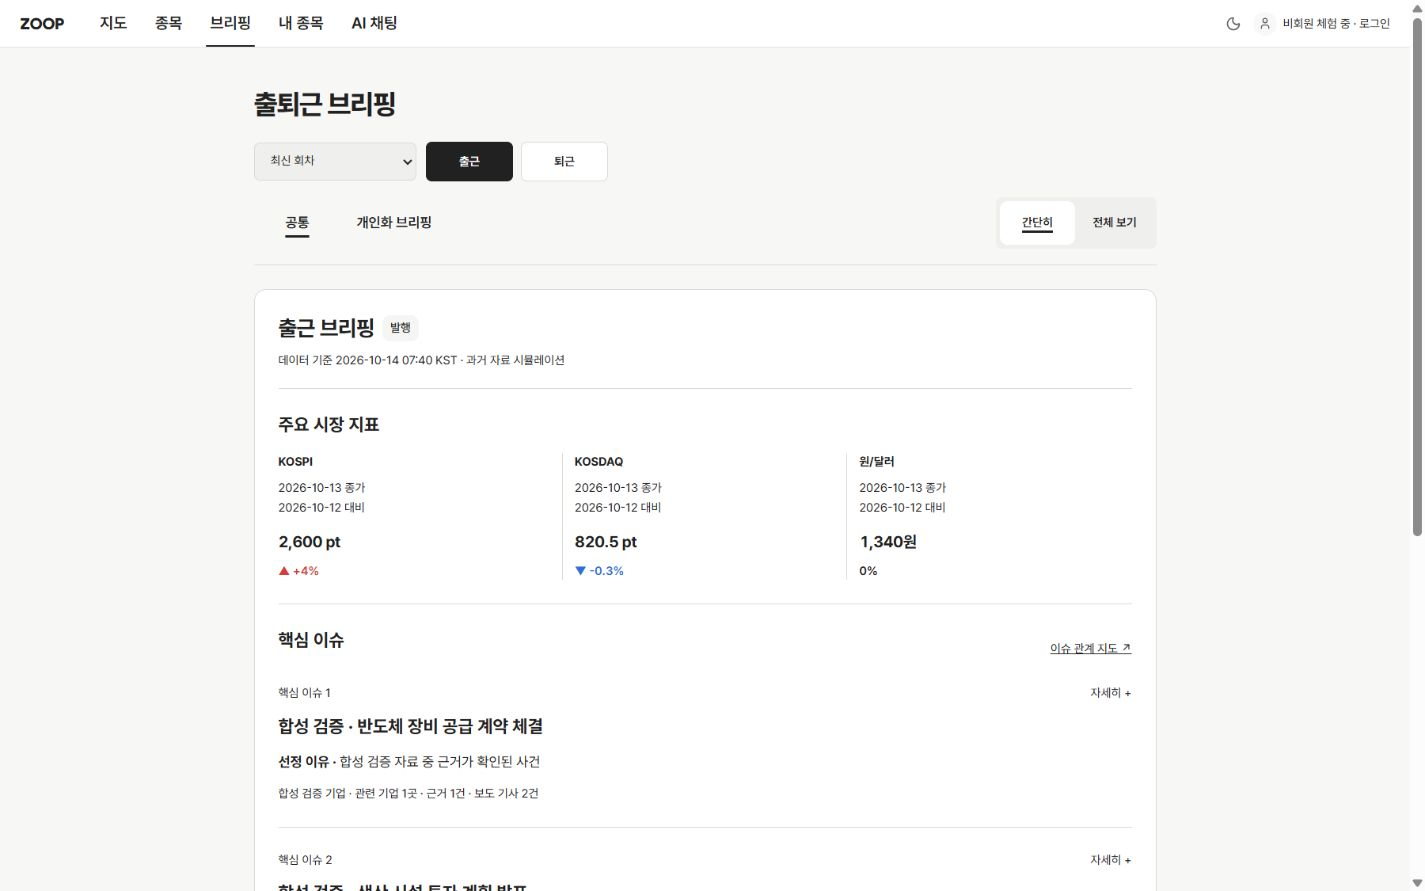
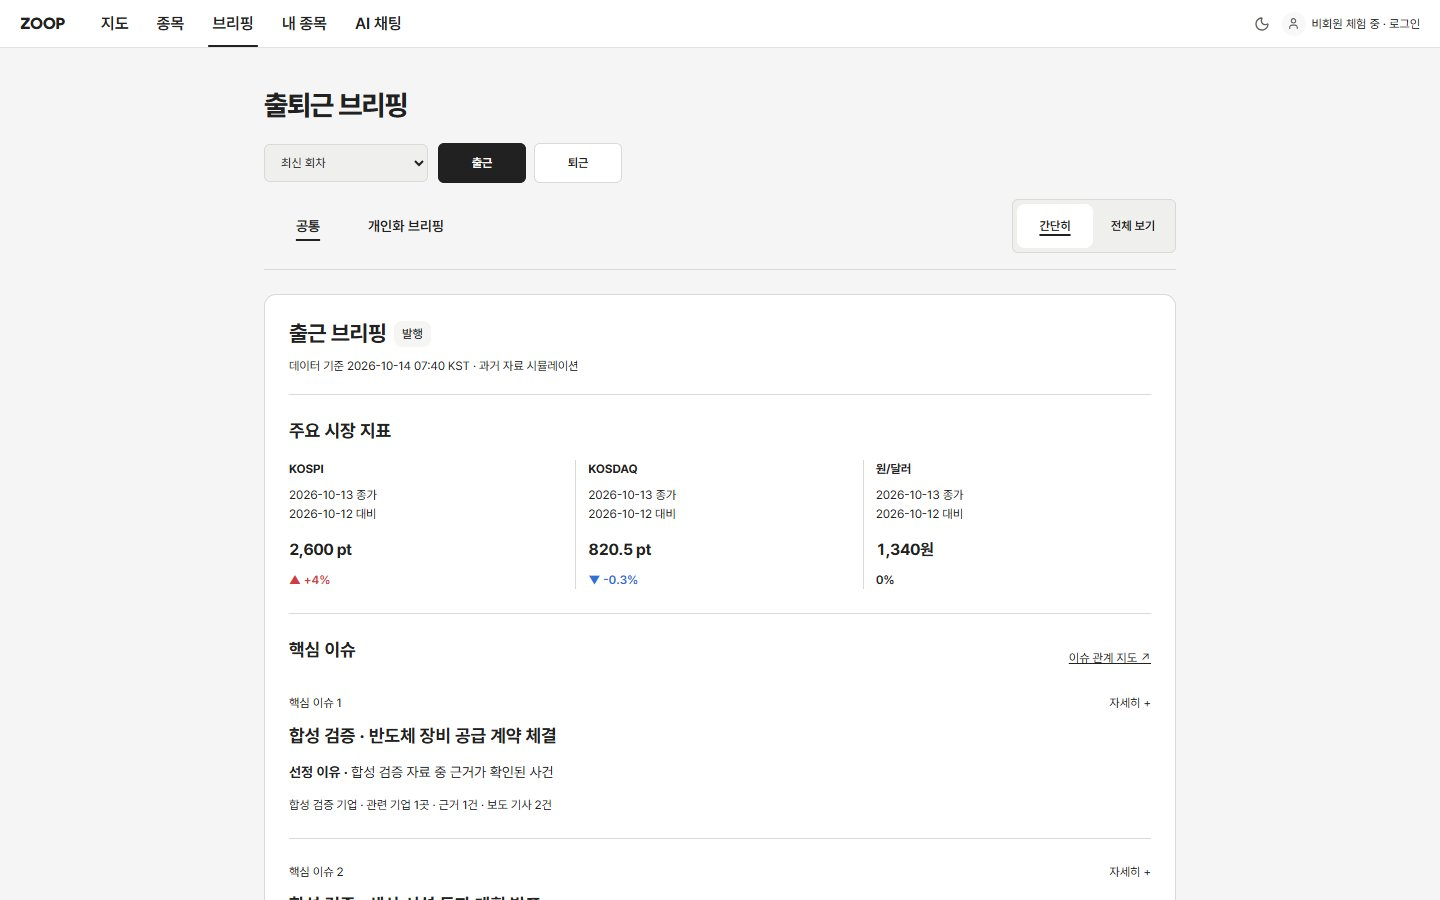
fix(web): unify briefing dividers and sub-heading scale after review
- Sections and disclosures draw only a bottom divider (last block none),
  so a section followed by a disclosure no longer shows two lines.
- h4 sub-headings use SUBSECTION_TITLE (text-lead) instead of the h3 size.
- Opened issue bodies use a left rule and indent instead of a top line.
- Shared ISSUE_LIST/ISSUE_ROW in every issue list, incl. preserved list.
- Personal tab drops the extra 18px top margin.
- Basis filter hover changes text colour only; filters fill the mobile row;
  reading toggle gets a border on the #f5f5f5 page background (#578).
- Briefing rules moved into ui-style-guide.md; evidence re-captured.

diff --git a/web/src/pages/briefing/BriefingPage.tsx b/web/src/pages/briefing/BriefingPage.tsx
@@ -7,7 +7,7 @@ import type { BriefingEdition } from '@/types/briefing';
 import { selectMemberId, useAuthStore } from '@/stores/useAuthStore';
 import { useScreenView } from '@/util/track';
 
-const FILTER_BUTTON = `min-h-11 min-w-[88px] whitespace-nowrap rounded-panel px-3 text-body font-semibold text-zoop-muted underline-offset-8 transition-colors hover:bg-zoop-selected aria-pressed:text-zoop-ink aria-pressed:underline aria-pressed:decoration-2 max-sm:flex-1 ${FOCUS_RING}`;
+const FILTER_BUTTON = `min-h-11 min-w-[88px] whitespace-nowrap rounded-panel px-3 text-body font-semibold text-zoop-muted underline-offset-8 transition-colors hover:text-zoop-ink aria-pressed:text-zoop-ink aria-pressed:underline aria-pressed:decoration-2 max-sm:flex-1 ${FOCUS_RING}`;
 const READING_BUTTON = `min-h-11 min-w-[76px] whitespace-nowrap rounded-panel px-3 text-caption font-semibold text-zoop-muted aria-pressed:bg-zoop-surface aria-pressed:text-zoop-ink aria-pressed:underline aria-pressed:decoration-2 aria-pressed:underline-offset-4 max-sm:flex-1 ${FOCUS_RING}`;
 
 // D-BRF-01 출근 · D-BRF-02 퇴근 브리핑 (/briefing). 날짜·회차는 주소(?date=&edition=)에 남는다.
@@ -58,7 +58,7 @@ export default function BriefingPage() {
         <div
           role="group"
           aria-label="브리핑 기준"
-          className="inline-flex flex-wrap gap-1"
+          className="inline-flex flex-wrap gap-1 max-sm:w-full"
         >
           <button
             type="button"
@@ -79,7 +79,7 @@ export default function BriefingPage() {
         </div>
 
         <div
-          className="inline-flex gap-0.5 rounded-md bg-zoop-control p-1 max-sm:w-full"
+          className="inline-flex gap-0.5 rounded-md border border-zoop-border bg-zoop-control p-1 max-sm:w-full"
           role="group"
           aria-label="브리핑 읽기 방식"
         >

diff --git a/web/tests/briefing/briefingReadingSection.test.tsx b/web/tests/briefing/briefingReadingSection.test.tsx
@@ -2,6 +2,7 @@ import { render, screen } from '@testing-library/react';
 import userEvent from '@testing-library/user-event';
 import { expect, it } from 'vitest';
 import BriefingReadingSection from '@/components/briefing/BriefingReadingSection';
+import { DISCLOSURE, SECTION } from '@/components/briefing/briefingStyles';
 
 it('D-BRF-01/02 flat reading sections retain native disclosure controls and visible text', async () => {
   const user = userEvent.setup();
@@ -13,7 +14,6 @@ it('D-BRF-01/02 flat reading sections retain native disclosure controls and visi
   const summary = screen.getByText('합성 근거 문서');
   const details = summary.closest('details')!;
   expect(details.open).toBe(false);
-  expect(details.classList.contains('bg-zoop-card')).toBe(false);
   expect(summary.classList.contains('min-h-11')).toBe(true);
   expect(summary.tagName).toBe('SUMMARY');
   await user.click(summary);
@@ -35,4 +35,13 @@ it('D-BRF-01/02 full reading keeps the original content without a disclosure lay
     '합성 원문 제목',
   );
   expect(screen.getByText('합성 검증 원문')).toBeTruthy();
+});
+
+it('D-BRF-01/02 sections and disclosures draw only a bottom divider, so adjacent blocks never double it', () => {
+  for (const block of [SECTION, DISCLOSURE]) {
+    const classes = block.split(' ');
+    expect(classes).toContain('border-b');
+    expect(classes).toContain('last:border-b-0');
+    expect(classes.some((c) => /^border-t(-|$)/.test(c))).toBe(false);
+  }
 });

diff --git a/web/src/components/briefing/briefingStyles.ts b/web/src/components/briefing/briefingStyles.ts
@@ -1,15 +1,22 @@
 // D-BRF-01·02: 회차에 외곽 경계 하나를 두고, 내부는 제목·행·구분선으로 나눈다.
+// 회차 안의 블록(헤더·섹션·접기 영역)은 모두 아래쪽에만 선을 긋고, 마지막 블록은 긋지 않는다.
 
 export const CARD =
   'mt-6 rounded-xl border border-zoop-border bg-zoop-surface p-6 max-sm:p-4';
 export const SECTION =
   'my-6 border-b border-zoop-border pb-6 last:mb-0 last:border-b-0 last:pb-0';
+/** h2 회차 제목(text-title) > h3 섹션 제목 > h4 소제목 */
 export const SECTION_TITLE = 'mb-4 text-title-sm font-bold leading-snug';
-export const DISCLOSURE = 'border-t border-zoop-border py-3';
+export const SUBSECTION_TITLE = 'mb-3 text-lead font-bold';
+export const DISCLOSURE =
+  'border-b border-zoop-border py-3 last:border-b-0 last:pb-0';
+export const ISSUE_LIST = 'space-y-5';
 export const ISSUE_ROW =
   'border-t border-zoop-border pt-5 first:border-t-0 first:pt-0';
 export const ISSUE_SUMMARY = 'min-h-11 cursor-pointer list-none py-1';
-export const ISSUE_BODY = 'mt-4 space-y-6 border-t border-zoop-border pt-5';
+/** 펼친 본문은 행 구분선과 겹치지 않게 왼쪽 선과 들여쓰기로 이슈에 묶는다. */
+export const ISSUE_BODY =
+  'mt-4 space-y-6 border-l-2 border-zoop-border pl-4 max-sm:pl-3';
 export const EMPTY =
   'rounded-panel bg-zoop-card p-4 text-body leading-relaxed text-zoop-muted';
 export const NOTE =

diff --git a/web/src/components/briefing/MarketSummary.tsx b/web/src/components/briefing/MarketSummary.tsx
@@ -14,6 +14,7 @@ import {
   NOTE,
   SECTION,
   SECTION_TITLE,
+  SUBSECTION_TITLE,
 } from './briefingStyles';
 
 const labels = { kospi: 'KOSPI', kosdaq: 'KOSDAQ' };
@@ -173,7 +174,7 @@ export default function MarketSummary({
             );
             return claims.length > 0 ? (
               <div key={group.kind}>
-                <h4 className={SECTION_TITLE}>{group.title}</h4>
+                <h4 className={SUBSECTION_TITLE}>{group.title}</h4>
                 <ul className="flex flex-col gap-3">
                   {claims.map((claim) => (
                     <Claim
@@ -192,7 +193,7 @@ export default function MarketSummary({
             </p>
           )}
           <div>
-            <h4 className={SECTION_TITLE}>이전 전망의 관측·평가</h4>
+            <h4 className={SUBSECTION_TITLE}>이전 전망의 관측·평가</h4>
             {analysis.forecastEvaluations.length === 0 ? (
               <p className={NOTE}>
                 비교할 수 있는 구조화된 이전 전망이 없습니다.

diff --git a/web/src/components/briefing/IssueCentricBriefing.tsx b/web/src/components/briefing/IssueCentricBriefing.tsx
@@ -47,6 +47,7 @@ import {
   EMPTY,
   FOCUS_RING,
   ISSUE_BODY,
+  ISSUE_LIST,
   ISSUE_ROW,
   ISSUE_SUMMARY,
   NOTE,
@@ -898,7 +899,7 @@ export default function IssueCentricBriefing({
             evening={result.edition === 'evening'}
           />
         ) : groups.length ? (
-          <ol className="space-y-5">
+          <ol className={ISSUE_LIST}>
             {groups.map((group, index) => (
               <IssueCard
                 key={group.id}
@@ -943,7 +944,7 @@ export default function IssueCentricBriefing({
                   사용하지 않았습니다. 비교용으로 보존한 내용입니다.
                 </p>
               )}
-              <ol className="mt-3 space-y-3">
+              <ol className={`mt-3 ${ISSUE_LIST}`}>
                 {groups.map((group, index) => (
                   <IssueCard
                     key={group.id}

diff --git a/web/src/components/briefing/BriefingIssueList.tsx b/web/src/components/briefing/BriefingIssueList.tsx
@@ -15,6 +15,8 @@ import {
   BODY,
   EMPTY,
   FOCUS_RING,
+  ISSUE_LIST,
+  ISSUE_ROW,
   NOTE,
   SECTION,
   SECTION_TITLE,
@@ -76,7 +78,7 @@ export default function BriefingIssueList({
           </p>
         )
       ) : (
-        <ol>
+        <ol className={ISSUE_LIST}>
           {[...items]
             .sort((a, b) => a.rank - b.rank)
             .slice(0, 3)
@@ -84,7 +86,7 @@ export default function BriefingIssueList({
               <li
                 key={item.eventId}
                 id={issueAnchor(item)}
-                className="scroll-mt-4 flex flex-col gap-1.5 border-t border-zoop-border pt-5 first:border-t-0 first:pt-0 [&+li]:mt-5"
+                className={`${ISSUE_ROW} flex scroll-mt-4 flex-col gap-1.5`}
               >
                 <BriefingReadingSection
                   compact={compact}

diff --git a/web/tests/briefing/marketOutlook.test.tsx b/web/tests/briefing/marketOutlook.test.tsx
@@ -165,6 +165,13 @@ describe('D-BRF-01·02 저장된 전망형 시장 분석', () => {
       screen.getByRole('heading', { name: '시장에 대한 해석' }),
     ).toBeTruthy();
     expect(screen.getByRole('heading', { name: '오늘의 전망' })).toBeTruthy();
+    // D-BRF-01/02: h4 sub-headings stay smaller than the h3 section title.
+    const section = screen
+      .getByRole('heading', { level: 3 })
+      .classList.contains('text-title-sm');
+    expect(section).toBe(true);
+    for (const h4 of screen.getAllByRole('heading', { level: 4 }))
+      expect(h4.classList.contains('text-title-sm')).toBe(false);
     expect(screen.getByText('이전 전망 완화')).toBeTruthy();
     expect(
       screen.getByText(/전망 조건: 수주 증가가 실제로 확인될 경우/),

diff --git a/web/tests/briefing/briefingRounds.test.tsx b/web/tests/briefing/briefingRounds.test.tsx
@@ -739,13 +739,8 @@ it('D-BRF-01/02 theme keeps surface roles and reading query/keyboard behavior', 
     true,
   );
   const indicators = screen.getByRole('region', { name: '주요 시장 지표' });
-  // D-BRF-01/02: one edition boundary; inner groups use type and dividers.
-  expect(heading.closest('article')?.classList.contains('shadow-sm')).toBe(
-    false,
-  );
+  // D-BRF-01/02: edition h2 > section h3 > sub-heading h4.
   expect(heading.classList.contains('text-title')).toBe(true);
-  expect(indicators.classList.contains('bg-zoop-card')).toBe(false);
-  expect(indicators.classList.contains('rounded-lg')).toBe(false);
   expect(
     within(indicators)
       .getByRole('heading', { level: 3 })

diff --git a/web/tests/briefing/issueCentricBriefing.test.tsx b/web/tests/briefing/issueCentricBriefing.test.tsx
@@ -268,11 +268,6 @@ describe('D-BRF-01/02 issue-centered reading', () => {
     expect(screen.queryByText('다음 확인사항')).toBeNull();
     expect(screen.queryByText('첫 사건의 사업상 의미')).toBeNull();
     const first = screen.getByText('서로 다른 사건 1').closest('summary')!;
-    // D-BRF-01/02: disclosure behavior remains, but each issue is a row, not another card.
-    expect(first.closest('details')?.classList.contains('rounded-xl')).toBe(
-      false,
-    );
-    expect(first.closest('li')?.classList.contains('border-t')).toBe(true);
     await user.click(first);
     expect(screen.getByText('첫 사건의 사업상 의미')).toBeTruthy();
     expect(

diff --git a/web/tests/briefing/marketIndicators.test.tsx b/web/tests/briefing/marketIndicators.test.tsx
@@ -55,10 +55,6 @@ describe('D-BRF-01·02 저장된 주요 시장 지표', () => {
     expect(screen.queryByText(/2026-10-12 대비/)).toBeNull();
     expect(screen.queryByText(/합성 지수 출처/)).toBeNull();
     expect(card('KOSPI').getByText('2,600.25 pt')).toBeTruthy();
-    const row = screen.getByText('KOSPI').closest('li')!;
-    expect(row.classList.contains('border')).toBe(false);
-    expect(row.classList.contains('rounded-panel')).toBe(false);
-    expect(row.closest('ul')?.classList.contains('divide-x')).toBe(true);
   });
 
   it('shows all three stored values, observation dates, baselines and nonzero changes', () => {

diff --git a/web/src/components/briefing/PersonalPriorityIssues.tsx b/web/src/components/briefing/PersonalPriorityIssues.tsx
@@ -10,6 +10,7 @@ import {
   EMPTY,
   FOCUS_RING,
   ISSUE_BODY,
+  ISSUE_LIST,
   ISSUE_ROW,
   ISSUE_SUMMARY,
   NOTE,
@@ -214,7 +215,7 @@ export default function PersonalPriorityIssues({
         선택 종목과 관련된 후보 안에서 우선순위를 정했습니다. 새 소식이 부족하면
         관련 소식이나 이전 이슈를 이어서 확인합니다.
       </p>
-      <ol className="space-y-5">
+      <ol className={ISSUE_LIST}>
         {value.items.map((item, index) => (
           <li key={item.issueId} className={ISSUE_ROW}>
             <details>

diff --git a/web/src/components/briefing/BriefingQuickRead.tsx b/web/src/components/briefing/BriefingQuickRead.tsx
@@ -6,7 +6,7 @@ import {
   FOCUS_RING,
   NOTE,
   SECTION,
-  SECTION_TITLE,
+  SUBSECTION_TITLE,
 } from './briefingStyles';
 
 const directions = {
@@ -105,7 +105,7 @@ export default function BriefingQuickRead({
         </>
       ) : (
         <div>
-          <h4 className={SECTION_TITLE}>시장 요약</h4>
+          <h4 className={SUBSECTION_TITLE}>시장 요약</h4>
           <p className={EMPTY}>
             {'text' in result.marketSummary
               ? result.marketSummary.analysis
